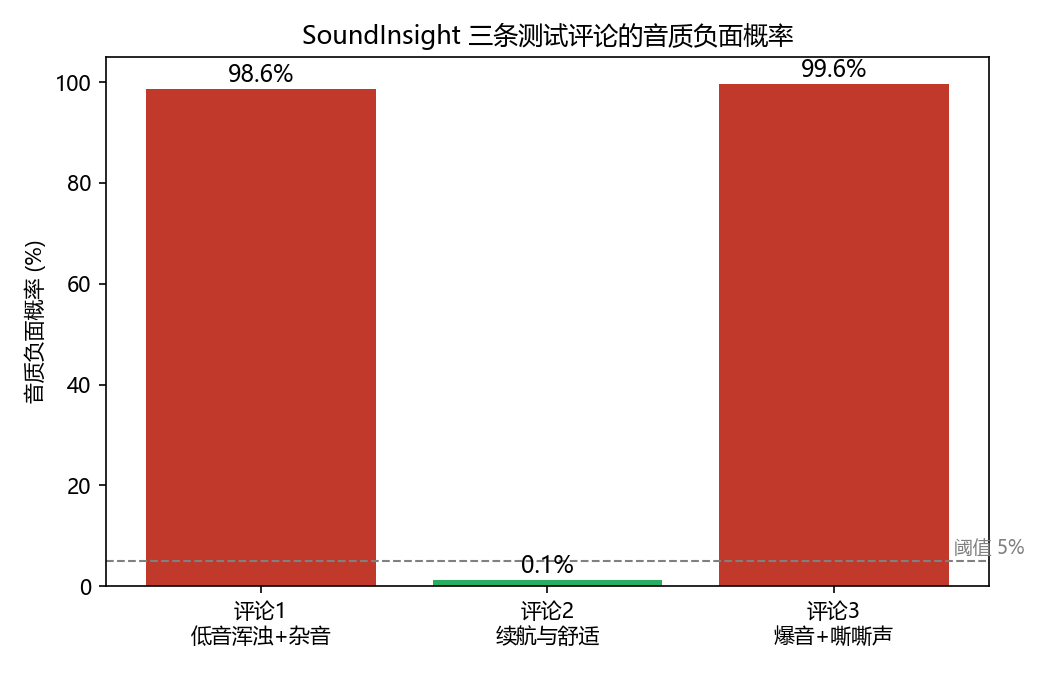
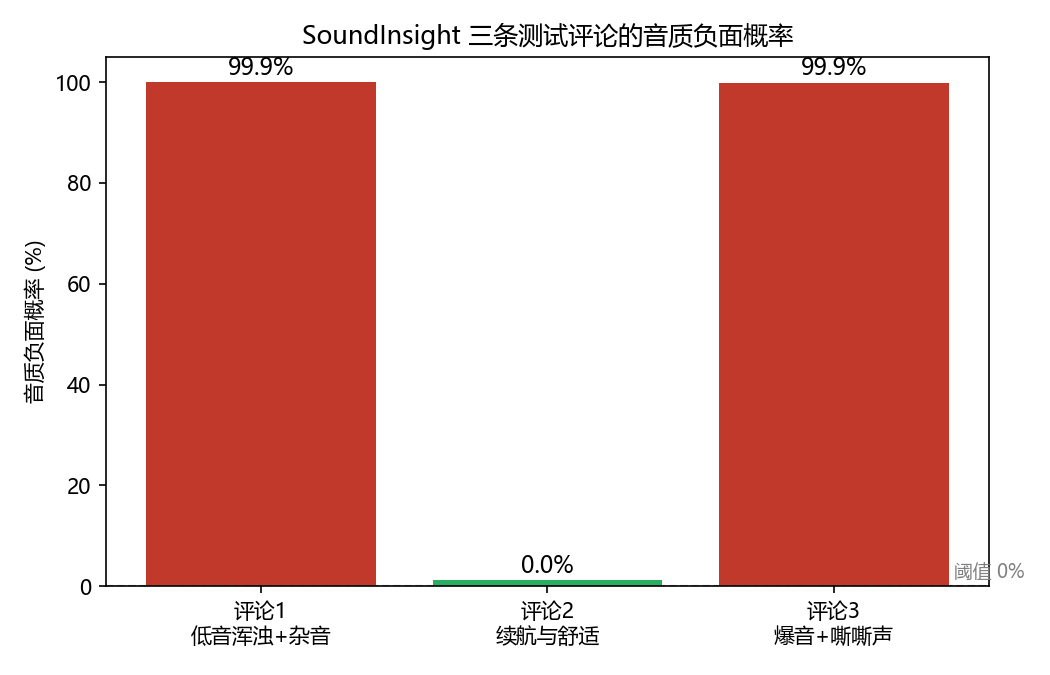
feat: GPU重训音质分类模型并刷新验证产物

diff --git a/test_model.py b/test_model.py
@@ -1,5 +1,4 @@
 # -*- coding: utf-8 -*-
-# 本脚本用于模型验证：在验证集上输出准确率、F1 与阈值扫描结果，并给出示例预测。
 """Smoke test: evaluate saved sound_model on the held-out validation split."""
 import json
 import os
@@ -11,7 +10,8 @@ import numpy as np
 import pandas as pd
 import torch
 from sklearn.metrics import (accuracy_score, classification_report,
-                             f1_score, precision_score, recall_score)
+                             confusion_matrix, f1_score, precision_score,
+                             recall_score)
 from sklearn.model_selection import train_test_split
 from transformers import (DistilBertForSequenceClassification,
                           DistilBertTokenizer)
@@ -48,6 +48,35 @@ for thr in [0.5, 0.2, 0.1, 0.05, 0.01, 0.001]:
           f"{recall_score(y_va, pred, zero_division=0):>7.4f} "
           f"{f1_score(y_va, pred, zero_division=0):>7.4f} "
           f"{int(pred.sum()):>8}")
+
+print("\nConfusion matrix at tuned threshold:")
+pred_tuned = (probs >= THR).astype(int)
+cm = confusion_matrix(y_va, pred_tuned, labels=[0, 1])
+print(cm)
+print(f"  TN={cm[0, 0]} FP={cm[0, 1]} FN={cm[1, 0]} TP={cm[1, 1]}")
+
+import matplotlib
+
+matplotlib.use("Agg")
+import matplotlib.pyplot as plt
+
+plt.rcParams["font.sans-serif"] = ["Microsoft YaHei", "SimHei"]
+plt.rcParams["axes.unicode_minus"] = False
+fig, ax = plt.subplots(figsize=(5, 4.5))
+im = ax.imshow(cm, cmap="Blues")
+ax.set_xticks([0, 1])
+ax.set_yticks([0, 1])
+ax.set_xticklabels(["音质正常(预测)", "音质负面(预测)"])
+ax.set_yticklabels(["音质正常(实际)", "音质负面(实际)"])
+for i in range(2):
+    for j in range(2):
+        ax.text(j, i, str(cm[i, j]), ha="center", va="center", fontsize=18)
+ax.set_title(f"验证集混淆矩阵 (阈值={THR:.2f})")
+fig.colorbar(im, ax=ax)
+fig.tight_layout()
+cm_png = os.path.join(BASE, "confusion_matrix.png")
+plt.savefig(cm_png, dpi=150)
+print(f"saved {cm_png} (threshold={THR})")
 
 print("\nSample predictions on real reviews:")
 for text in [
